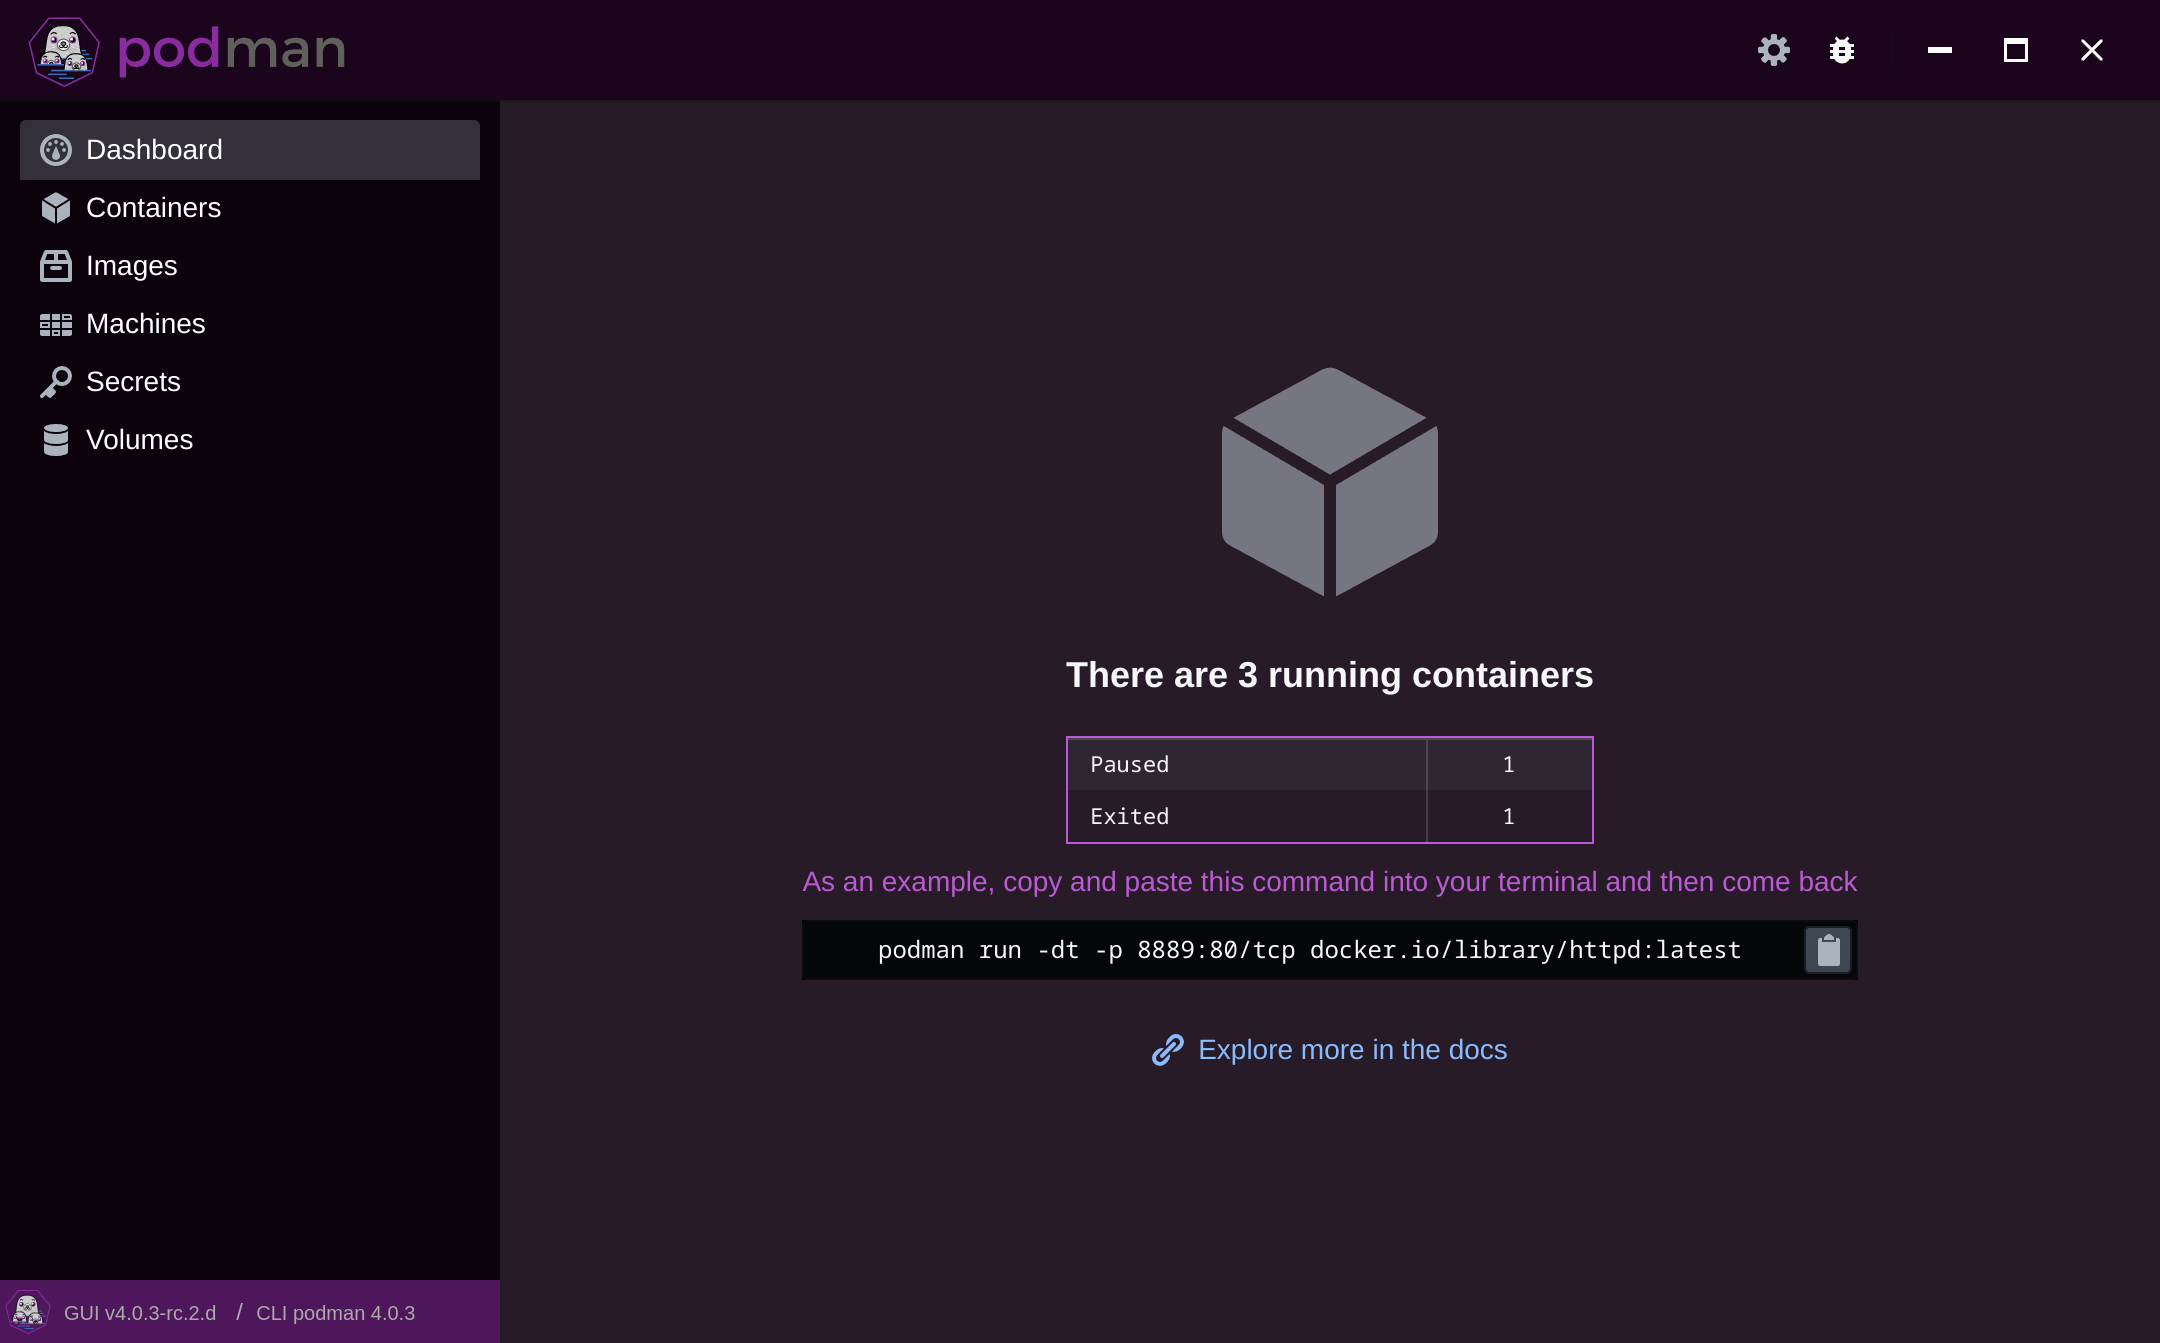
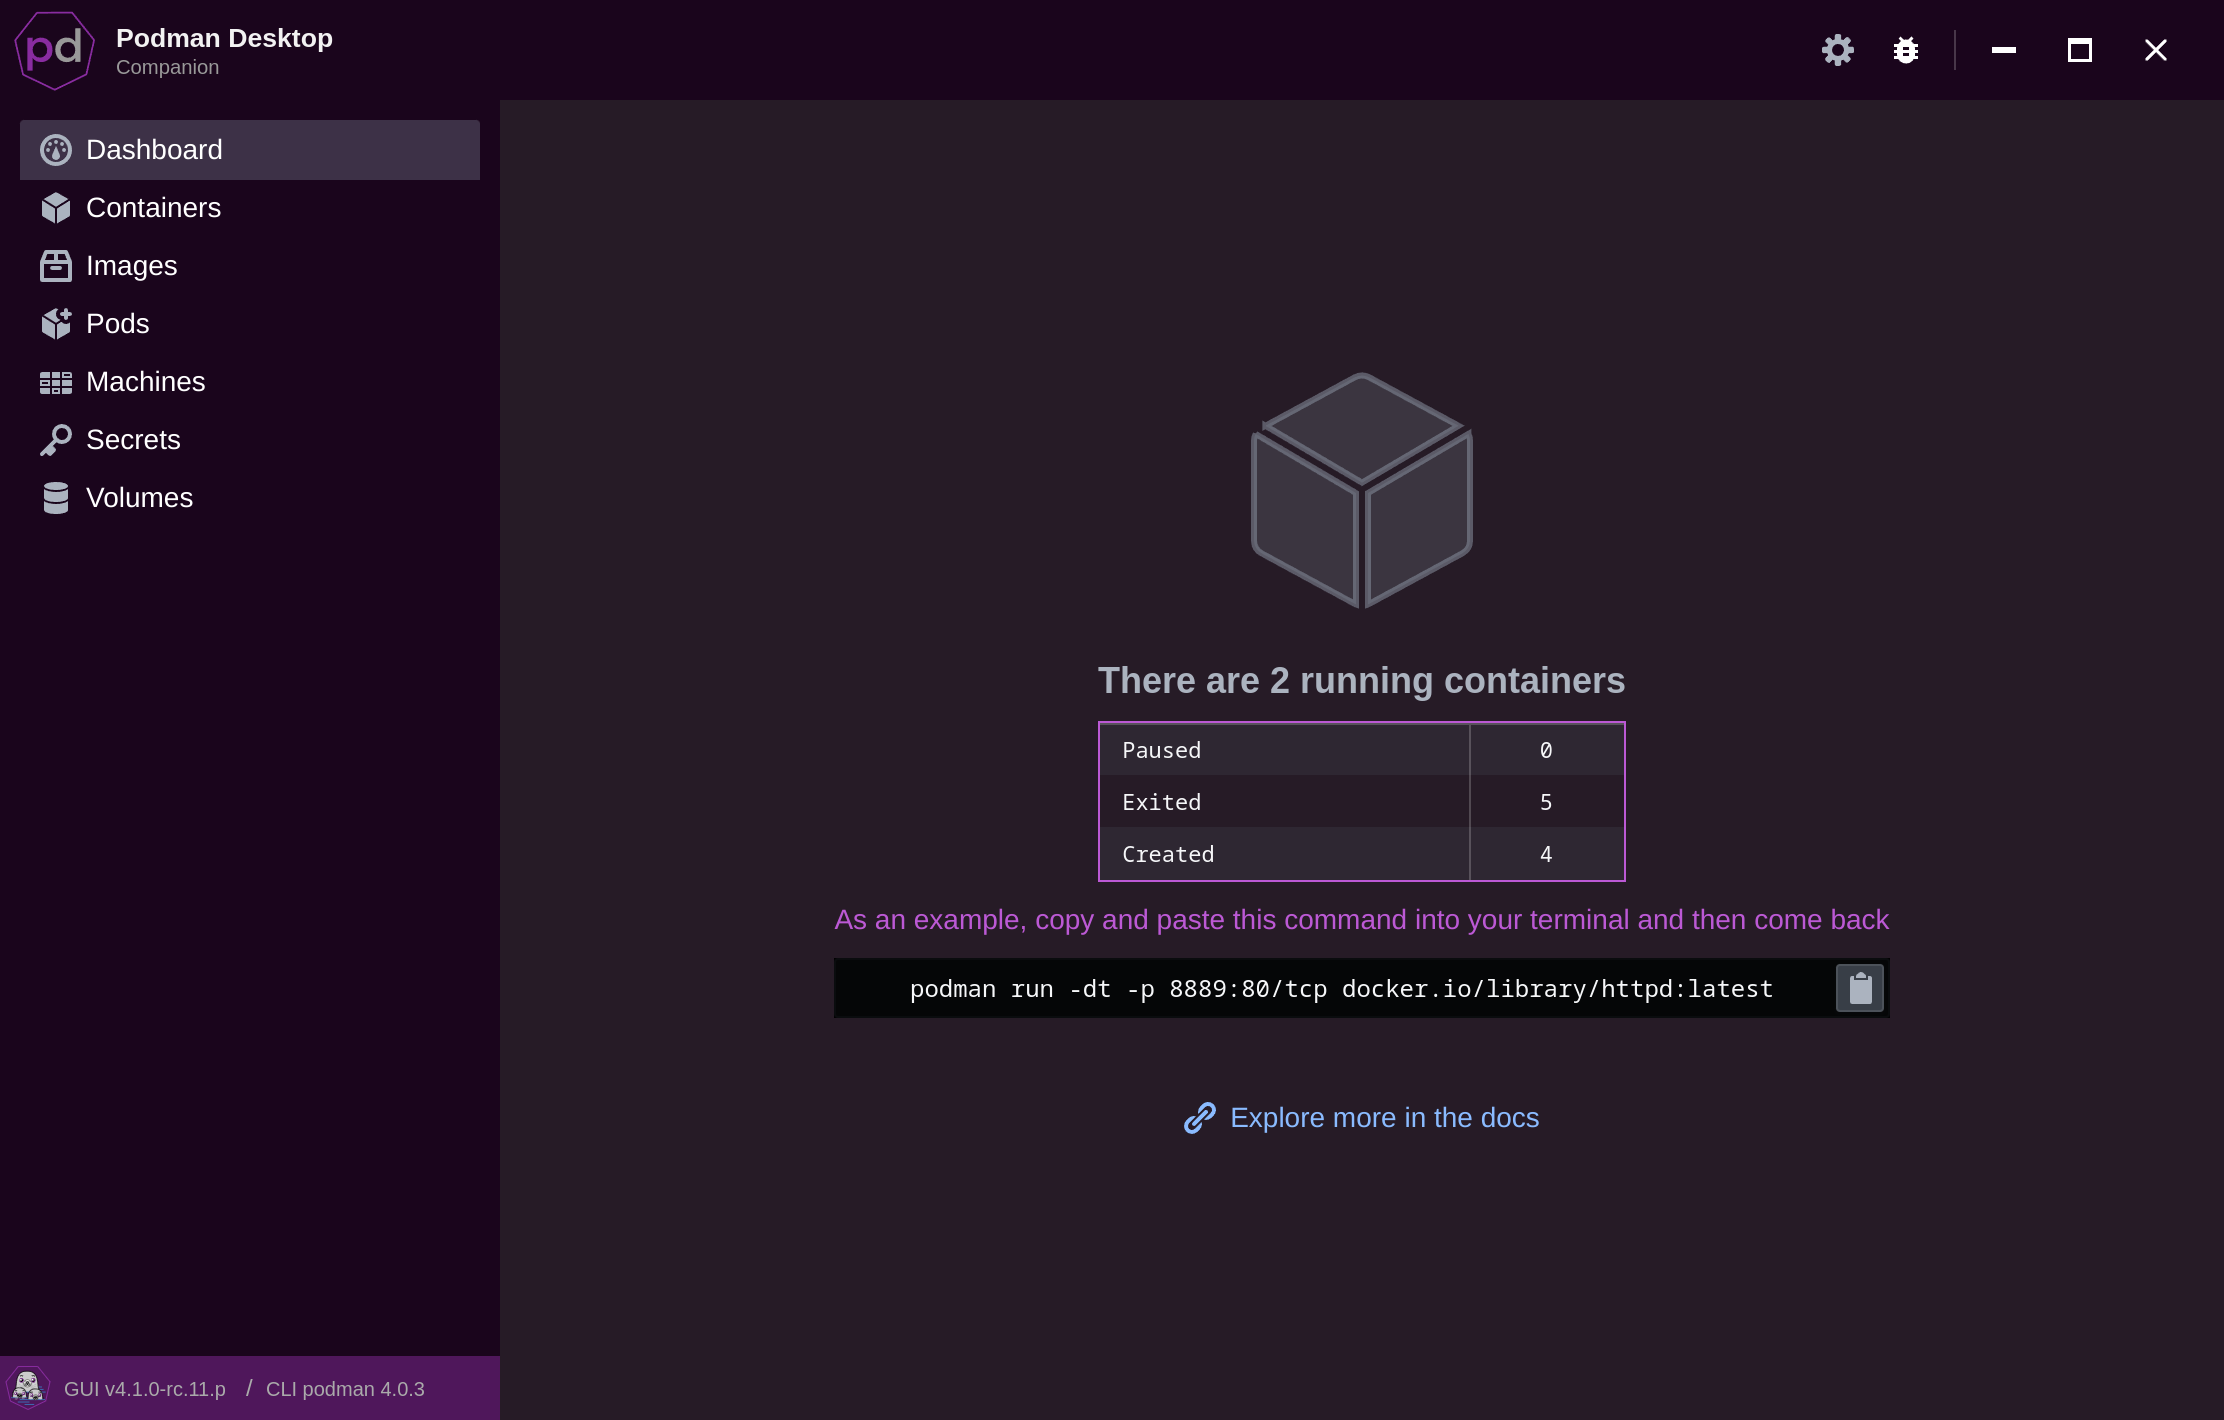
Update looks

diff --git a/docs/index.html b/docs/index.html
@@ -157,6 +157,27 @@
 
     <div class="section1">
       <div class="column1">
+        <h2>Multiple engines</h2>
+        <ul>
+          <li>Fast native on <strong>Linux</strong> only</li>
+          <li>Virtualized for any OS</li>
+          <li>LIMA for MacOS</li>
+          <li>WSL for Windows</li>
+          <li>Both <strong>podman</strong> and <strong>docker</strong> engines</li>
+          <li>Others are planned</li>
+        </ul>
+      </div>
+      <div class="column2">
+        <img class="imgPost" src="img/DockerSettings.png" />
+      </div>
+    </div>
+
+
+    <div class="section2">
+      <div class="column1">
+        <img class="imgPost" src="img/PodmanContainers.png" />
+      </div>
+      <div class="column2">
         <h2>Containers</h2>
         <ul>
           <li>Be informed about the origin and status of your container environment.</li>
@@ -166,16 +187,10 @@
           <li>Gain control of all that happens in the container using the terminal console.</li>
         </ul>
       </div>
-      <div class="column2">
-        <img class="imgPost" src="img/003-ContainerActions.png" />
-      </div>
     </div>
 
     <div class="section2">
       <div class="column1">
-        <img class="imgPost" src="img/006-ImageActions.png" />
-      </div>
-      <div class="column2">
         <h2>Images</h2>
         <ul>
           <li>Be informed about the origin and status of local image store, their registry, name and tag.</li>
@@ -188,12 +203,31 @@
           </li>
         </ul>
       </div>
+      <div class="column2">
+        <img class="imgPost" src="img/006-ImageActions.png" />
+      </div>
     </div>
 
-    <div class="section3">
+    <div class="section2">
+      <div class="column1">
+        <img class="imgPost" src="img/PodmanPods.png" />
+      </div>
+      <div class="column2">
+        <h2>Pods</h2>
+        <ul>
+          <li>Full power of pods on supported engines</li>
+          <li>Access logs, processes and details.</li>
+          <li>Generate kube and perform common actions</li>
+        </ul>
+      </div>
+    </div>
+
+    <div class="section2">
       <div class="column1">
         <h2>Machines</h2>
-        <p>Manage all available podman virtual machines, create new ones or decommission what is redundant.</p>
+        <ul>
+          <li>Manage all available podman virtual machines, create new ones or decommission what is redundant.</li>
+        </ul>
       </div>
       <div class="column2">
         <img class="imgPost" src="img/011-MachineTerminal.png" />

diff --git a/README.md b/README.md
@@ -2,39 +2,15 @@
 
 A familiar desktop graphical interface to the free and open container manager, [podman!](https://podman.io/)
 
-![Podman Desktop Companion Dashboard](docs/img/001-Dashboard.png?raw=true)
-
 Main goals
 
 * Cross-platform desktop integrated application with consistent UI
 * Learning tool for the powerful `podman` command line interface
 
-Graphically exposed features for common usage scenarios
+## Podman is the driving engine
 
-* Application status
-  * Dashboard - offering just the essentials for the users to feel right at home
-* Content management systems for
-  * Containers
-    * Be informed about the origin and status of your container environment.
-    * Quickly access logs, environment variables, mounts, opened ports and monitoring stats.
-    * Perform common maintenance operations, stop, restart and remove easily.
-    * Direct access to the exposed services using your browser
-    * Gain control of all that happens in the container using the terminal console
-  * Images
-    * Be informed about the origin and status of local image store, their registry, name and tag.
-    * Immediately spawn new containers from image, customize name, port mappings and available mounts
-    * Quickly access image build-up, check their impact and debug their setup
-    * In-depth configuration viewer
-    * Perform common maintenance operations, pull latest updates to refresh the images, push latest changes to a distributed image project.
-  * Machines
-    * Manage all available podman virtual machines, create new ones or decommission what is redundant.
-  * Secrets
-    * Be aware of all available secrets, define new ones or purge old from existence
-  * Volumes
-    * Manage shared volumes across containers, limit repetition and also be portable
-* General configuration
-  * Application settings
-    * Status and configuration options
-  * Common tasks
-    * Help
-    * Maintenance
+![Podman Desktop Companion Dashboard](docs/img/001-Dashboard.png?raw=true)
+
+## Multiple engines supported, familiar ones too
+
+![Engine Settings Screen](docs/img/DockerSettings.png?raw=true)
